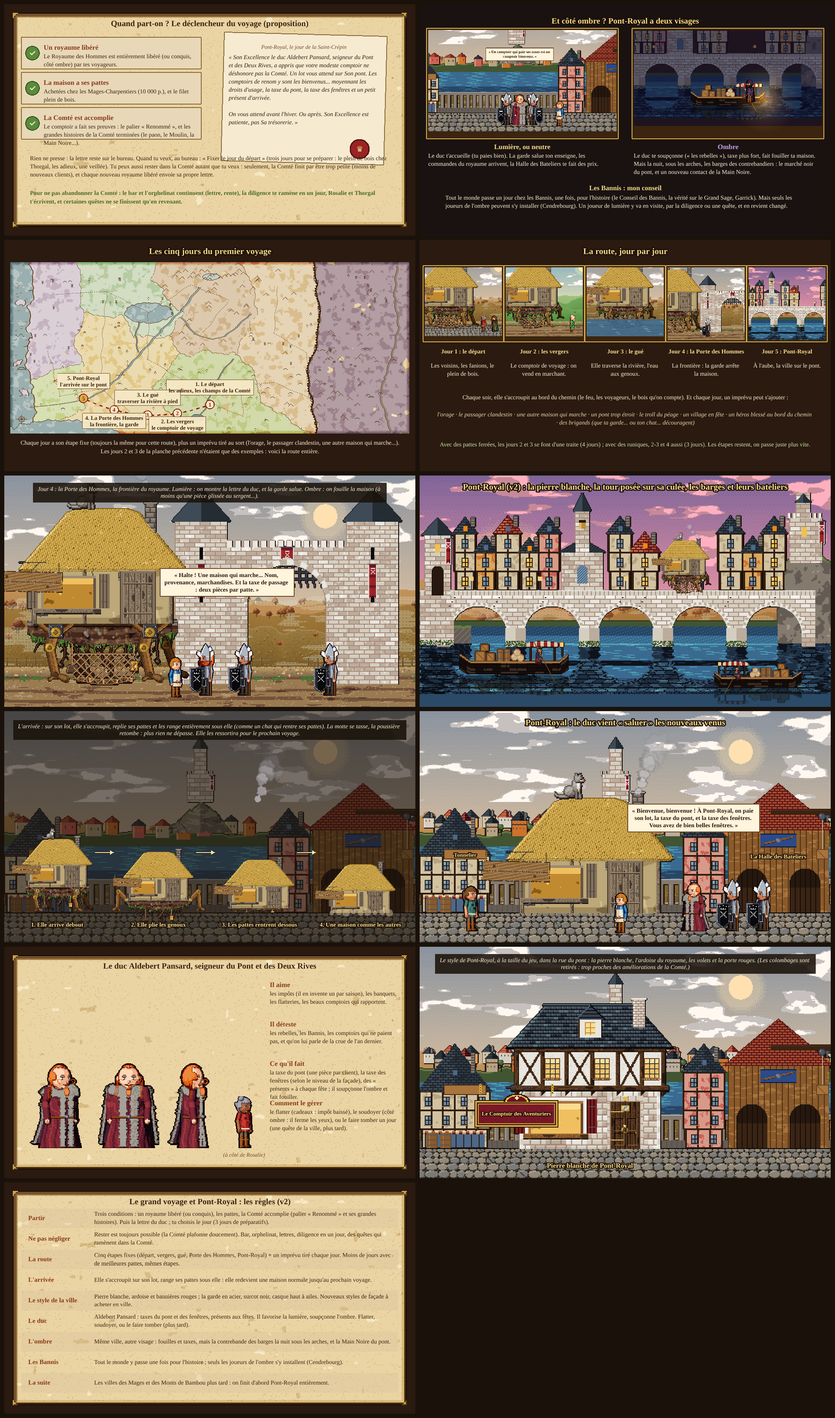
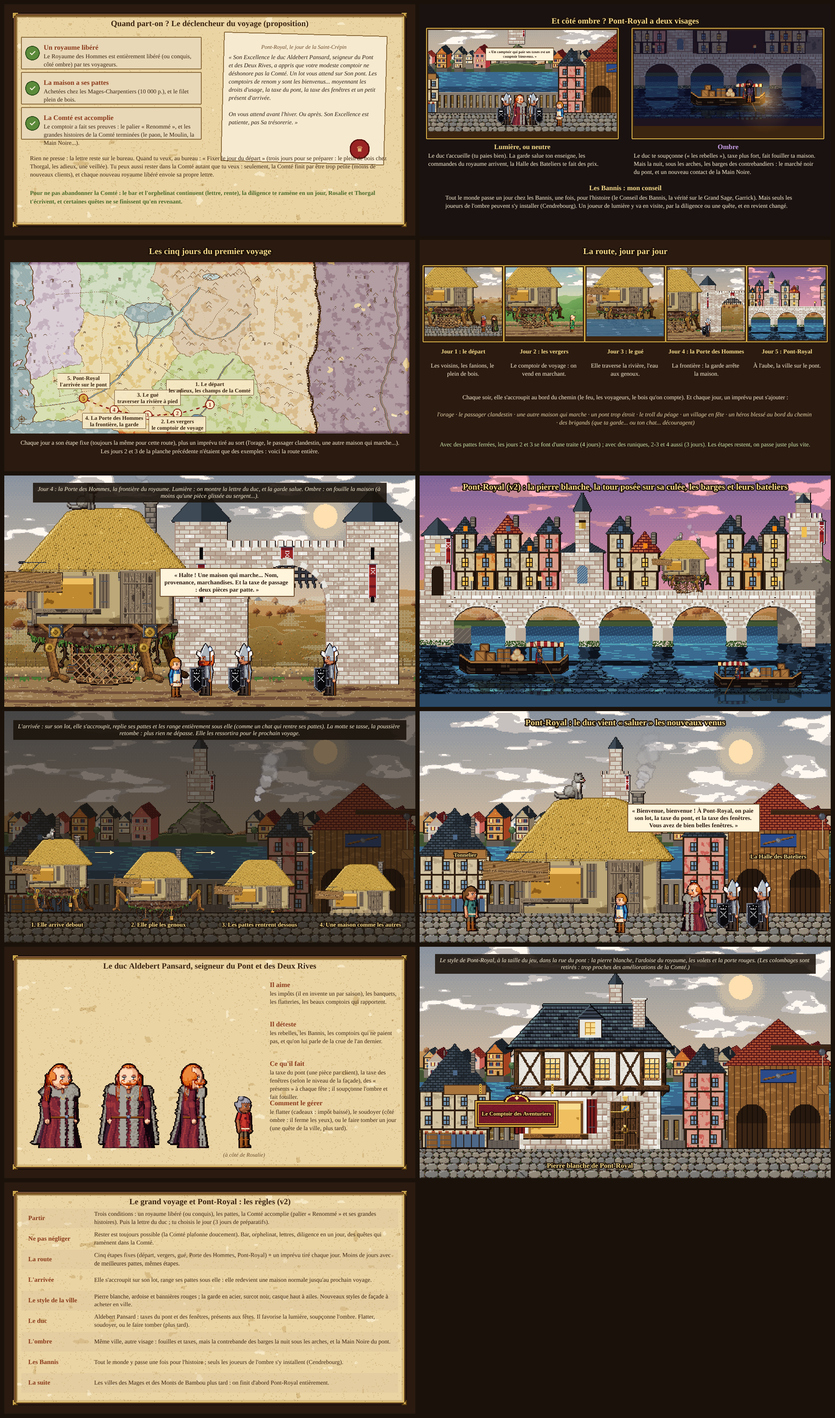
Planche 75 v2 : moustache en guidon et mèches du duc sous tous les angles, maisons de l'autre rive en volume
Claude-Session: https://claude.ai/code/session_018kbaP56NxxNMUzmj9EfKBC

diff --git a/src/corpsVueHD.js b/src/corpsVueHD.js
@@ -238,7 +238,7 @@ function dessinerCorpsVue(g, tenue = 1, costume = null, pas = 0, pose = null, vu
     t.rampes.metal = rampe(0x9298a6); t.rampes.habit = rampe(0x1c1c24); t.rampes.argent = rampeVive(0xdadee6); t.rampes.bas = rampe(0x26262e); t.rampes.cuir = rampe(0x2e2420); t.rampes.plume = rampeVive(0xf4f2ec); t.rampes.ecaille = rampeVive(0x9a2424);
   } else if (costume === 'duc') {
     // (planche 75 v2, à valider) le duc de Pont-Royal : robe de brocart lie-de-vin, grand manteau de fourrure grise, jabot cuivre, bagues
-    t.rampes.habit = rampe(0x5a1a2a); t.rampes.cape = rampe(0x3e1e30); t.rampes.bas = rampe(0x2a1a14); t.rampes.fourrure = rampe(0x8e887c); t.rampes.lin = rampeVive(0xc8682a); t.rampes.or = rampeVive(0xd8a838); t.rampes.rubis = rampeVive(0xc81828);
+    t.rampes.habit = rampe(0x5a1a2a); t.rampes.cape = rampe(0x3e1e30); t.rampes.bas = rampe(0x2a1a14); t.rampes.fourrure = rampe(0x8e887c); t.rampes.lin = rampe(0xa85a3a); t.rampes.or = rampeVive(0xd8a838); t.rampes.rubis = rampeVive(0xc81828);
   } else if (costume === 'cambrioleur') {
     // (planche 63) le cambrioleur : bonnet noir, loup noir sur les yeux, pull rayé, pantalon sombre
     t.rampes.habit = rampe(0x2a2c36); t.rampes.lin = rampeVive(0xd8d4c8); t.rampes.bas = rampe(0x22242c); t.rampes.cuir = rampe(0x1e1a18);
@@ -671,7 +671,7 @@ function dessinerCorpsVue(g, tenue = 1, costume = null, pas = 0, pose = null, vu
       const revers = !dos && y > yT && t.mat(x, y) && Math.abs(Math.abs(d) - 4.8 * k * Math.max(0.3, Math.abs(c))) < 3.4 * k * Math.max(0.45, Math.abs(c)) + ragged * Math.max(0.5, Math.abs(c));
       const tient = t.mat(x, y) || t.mat(x - 2 * k, y) || t.mat(x + 2 * k, y) || t.mat(x, y + 2 * k);
       return (col && tient) || revers ? [d / (ep * 2), -0.2, 0.85] : null; }, { decalage: 0.15, motif: poil });
-    if (!dos) { const jx = X(0, prof), jy = yT + 1 * k; t.forme('lin', (x, y) => (Math.abs(x + 0.5 - jx) < (2.4 * k - Math.abs(y - jy - 2 * k) * 0.3) && y >= jy - 1 * k && y <= jy + 5 * k ? [0, 0, 1] : null), { decalage: 0.2, motif: (x, y) => (Math.floor((y - jy) / k) % 2 ? 0.4 : -0.2) });
+    if (!dos) { const jx = X(0, prof * 0.4), jy = yT + 0.5 * k; t.forme('lin', (x, y) => (Math.abs(x + 0.5 - jx) < (1.9 * k - Math.abs(y - jy - 1.5 * k) * 0.3) * Math.max(0.6, Math.abs(c)) && y >= jy && y <= jy + 4 * k ? [0, 0, 1] : null), { decalage: 0.2, motif: (x, y) => (Math.floor((y - jy) / k) % 2 ? 0.4 : -0.2) });
       for (let j = 0; j <= 10; j++) { const u = j / 10, x = Math.round(jx + (u - 0.5) * 6.5 * k * Math.max(0.6, Math.abs(c))), y = Math.round(jy + 6 * k + Math.sin(u * Math.PI) * 3 * k); t.poser(x, y, 'or', j % 2 ? 3 : 5); } }
   }
   // L'écharpe de laine, la chaîne de montre, la bague
@@ -1173,18 +1173,26 @@ function dessinerCorpsVue(g, tenue = 1, costume = null, pas = 0, pose = null, vu
     } else if (barbe === 'moustache') { for (let i = -lb - 1; i <= lb + 1; i++) for (let e = 0; e < k; e++) t.poser(Math.round(bx + i), by - 1.6 * k + e + (Math.abs(i) > lb - 1 ? 1 : 0), 'barbe', 3);
       if (costume === 'duc') {
         // (planche 75 v2) le duc : la moustache cirée, longue, aux pointes recourbées vers le haut, et une petite mouche
-        for (const cote of [-1, 1]) for (let j = 0; j <= 14; j++) { const a = j / 14 * Math.PI * 1.25, r = 3 * k * (1 - j / 26);
-          const x = Math.round(bx + cote * (lb + 1 + 2.4 * k + Math.sin(a) * r)), y = Math.round(by - 1 * k - (1 - Math.cos(a)) * r); for (let e = 0; e < Math.max(1, k - Math.floor(j / 6)); e++) t.poser(x, y + e, 'barbe', 3 + (j % 3 === 0 ? 1 : 0)); }
-        for (let y = by + 1.6 * k; y < by + 4 * k; y++) for (let e = -k; e <= k; e++) if (Math.abs(e) < k * (1 - (y - by - 1.6 * k) / (3 * k))) t.poser(Math.round(bx + e), Math.round(y), 'barbe', 3);
+        const colle = (x, y, tol) => { for (let d = 0; d <= tol; d++) if (tete(x - d, y) || tete(x + d, y)) return true; return false; };
+        for (const cote of [-1, 1]) {
+          const long = lb + 2.2 * k;
+          for (let j = 0; j <= long; j++) { const x = Math.round(bx + cote * j), y = Math.round(by - 1.5 * k + j * 0.1); for (let e = 0; e < 2 * k - Math.floor(j / long * k); e++) if (colle(x, y + e, k)) t.poser(x, y + e, 'barbe', e < k * 0.6 ? 3 : 2); }
+          const cxT = bx + cote * long, cyT = by - 2.6 * k, r = 1.3 * k;
+          for (let a = 0; a <= Math.PI * 1.35; a += 0.12) { const x = Math.round(cxT + cote * Math.sin(a) * r), y = Math.round(cyT + Math.cos(a) * r); if (colle(x, y, k)) { t.poser(x, y, 'barbe', 3); t.poser(x, y + 1, 'barbe', 2); } }
+        }
+        for (let y = by + 1.6 * k; y < by + 4 * k; y++) for (let e = -k; e <= k; e++) if (Math.abs(e) < k * (1 - (y - by - 1.6 * k) / (3 * k))) { const gx = Math.round(bx + e), gy = Math.round(y); if (tete(gx, gy)) t.poser(gx, gy, 'barbe', 3); }
         // les paupières lourdes (l'air satisfait de lui-même), les sourcils hauts, et le pli des bajoues
         const yeux = []; for (let y = ey - 4 * k; y <= ey + 3 * k; y++) for (let x = 0; x < L; x++) { const m = t.mat(x, y); if (m && m !== 'peau' && m !== 'cheveux' && m !== 'barbe' && m !== 'metal' && tete(x, y)) yeux.push([x, y]); }
         if (yeux.length) { const y0 = Math.min(...yeux.map(p => p[1])), y1 = Math.max(...yeux.map(p => p[1])), lid = Math.round(y0 + (y1 - y0) * 0.5);
           for (const [x, y] of yeux) { if (y < lid) t.poser(x, y, 'peau', 3); else if (y === lid) t.poser(x, y, 'peau', 1); } }
         for (const cote of [-1, 1]) for (let j = 0; j < 3 * k; j++) { const x = Math.round(bx + cote * (lb + 3.2 * k + j * 0.25)), y = Math.round(by - 1 * k + j); if (t.mat(x, y) === 'peau') t.poser(x, y, 'peau', 2); }
         // les longues mèches fines, rejetées en arrière, qui tombent sur la fourrure (le front est dégarni)
-        if (!dos) for (const cote of [-1, 1]) { const u = cote * (P.rx + 0.2 * k); if (Z(u, -P.rx * 0.2) < -P.rx * 0.5) continue;
-          for (let m = 0; m < 3; m++) for (let y = cy - 1 * k; y < yT + 9 * k; y++) { const x = Math.round(X(u + cote * m * 0.9 * k + cote * (y - cy) * 0.08, -P.rx * 0.2) + Math.sin(y / (3 * k) + m) * 0.6 * k);
-            if (t.mat(x, y) !== 'peau' || y > ey + 4 * k) t.poser(x, y, 'cheveux', 2 + ((y + m) % 3 === 0 ? 1 : 0)); } }
+        // (sous tous les angles : elles partent de derrière les oreilles et tombent jusque sur le col de fourrure)
+        if (!dos) for (const cote of [-1, 1]) { const u0 = cote * P.rx * 0.92, z0 = -P.rx * 0.5; if (Z(u0, z0) < -P.rx * 0.85) continue;
+          for (let m = 0; m < 4; m++) for (let y = cy - 2 * k; y < yT + 11 * k; y++) { const dy = Math.max(0, y - cy), u = u0 + cote * (m * 0.7 * k + dy * 0.06), z = z0 - m * 0.7 * k - dy * 0.05;
+            const x = Math.round(X(u, z) + Math.sin(y / (3 * k) + m) * 0.5 * k);
+            if (t.mat(x, y) === 'peau' && y < cy + P.ry && tete(x, y) && Z(u, z) > -P.rx * 0.2) continue;   // (jamais sur le visage)
+            t.poser(x, y, 'cheveux', 2 + ((y + m) % 3 === 0 ? 1 : 0) - (m === 3 ? 1 : 0)); } }
       } }
     else if (barbe) {
       const long = barbe === 'sage' ? yT + 11 * k : barbe === 'nain' ? yB - 2 * k : barbe === 'pleine' ? cy + P.ry + 4 * k : cy + P.ry + 1.5 * k;

diff --git a/docs/game-design.md b/docs/game-design.md
@@ -3274,3 +3274,5 @@ Idée du joueur : la couleur par sujet portée par des pierres précieuses sur l
 - **Dans le code (non branché, en attente de validation)** : deux nouveaux costumes dans le moteur des personnages, `gardeRoyal` (acier en plaques, surcot noir aux épées croisées et à la couronne d'argent, casque haut en ogive à ailes blanches, lance) et `duc` (manteau de fourrure ébouriffée, brocart, jabot, chaîne, moustache recourbée, paupières lourdes, mèches) ; les figurants `duc` et `gardeRoyal` ; `corpsHD` accepte maintenant une carrure (`proportions`) pour un figurant.
 - **Retour du joueur sur la v2 (23/10)** : voir les images 10 et 11 en plus grand ; « le manteau du duc vu de profil est mal fait, mais son design est superbe sinon » ; « les gardes sont bien aussi » ; « je n'aime que le nouveau design de maison » en pierre blanche, les autres (colombages) sont trop proches des dernières améliorations de la maison des hobbits ; en arrière-plan de la rue du pont, les maisons de l'autre rive sont très mal faites.
   - **Corrigé** : le manteau du duc s'évase depuis les épaules de profil et de biais (plus de planche raide derrière lui), le col de fourrure épouse les épaules ; l'autre rive refaite (deux rangées de maisons, les plus loin plus pâles dans la brume, chacune avec ses fenêtres, son toit ombré, sa cheminée, des arbres) ; le style « Colombages du pont » retiré, seul reste « Pierre blanche de Pont-Royal », montré à la taille du jeu dans la rue du pont (docs/planches-v059/planche-75-v2-tableau-10-maison-pierre-blanche.png) ; les règles en grand (planche-75-v2-tableau-11-regles.png) ; le duc en trois vues (planche-75-v2-duc-trois-vues.png).
+- **Retour suivant (23/10)** : « pour le manteau du duc on y est », mais la barbe est mal placée de biais et de profil, et ses cheveux ne sont longs que de face ; les maisons du fond sont mieux placées mais toujours très moches.
+  - **Corrigé** : la moustache devient une vraie moustache en guidon (une barre épaisse au-dessus de la bouche, des pointes cirées qui remontent), toujours collée au visage, sous les trois angles ; la mouche reste sur le menton ; le jabot, plus petit et cuivré, ne se confond plus avec une barbe ; les longues mèches partent de derrière les oreilles et tombent jusque sur le col de fourrure de face, de biais et de profil (docs/planches-v059/planche-75-v2-duc-visages.png, planche-75-v2-duc-trois-vues.png). Les maisons de l'autre rive sont redessinées en volume (`maisonLointaine` : façade à pignon face à nous, mur de côté qui fuit dans l'ombre, pan de toit de côté plus sombre, colombages, fenêtres encadrées à volets rouges, porte, cheminée, fondations jusqu'à la rive), deux rangées plus serrées, les plus lointaines dans la brume (planche-75-v2-tableau-8-rue-du-pont.png).
